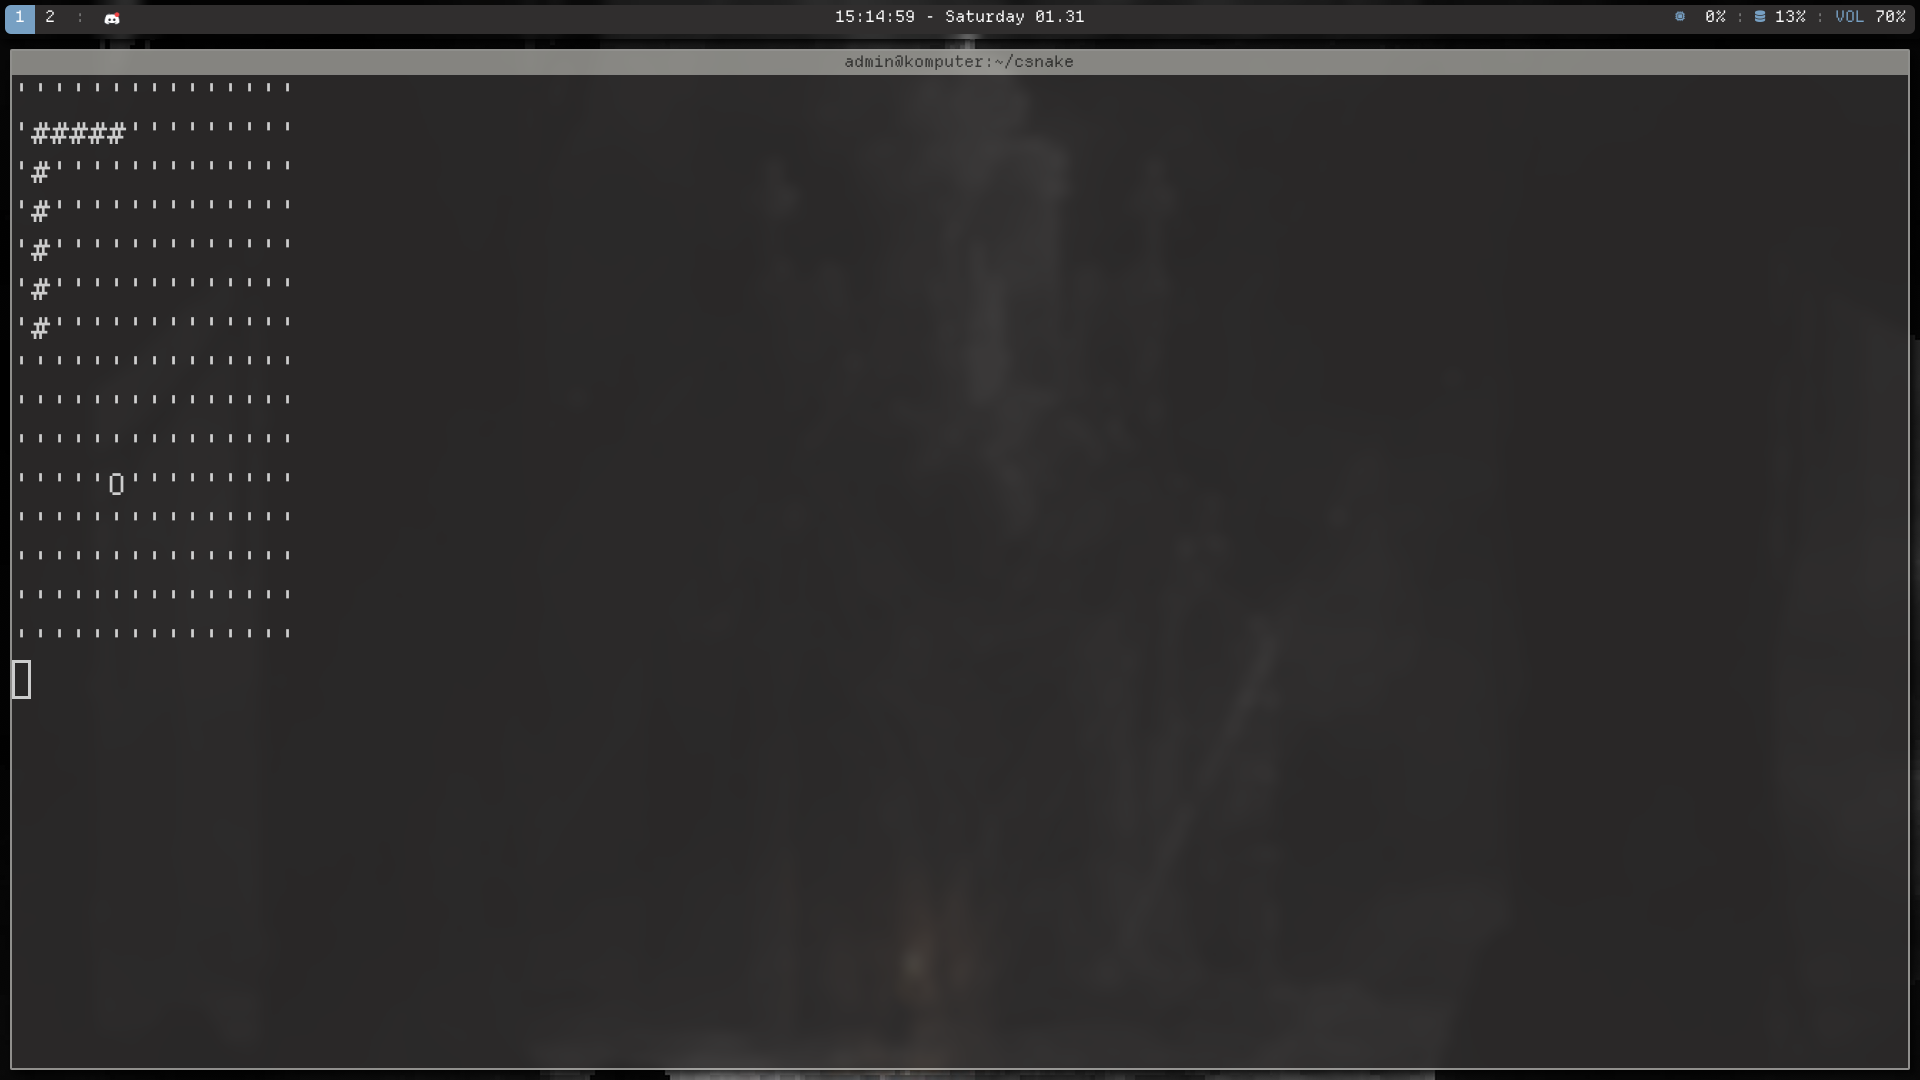
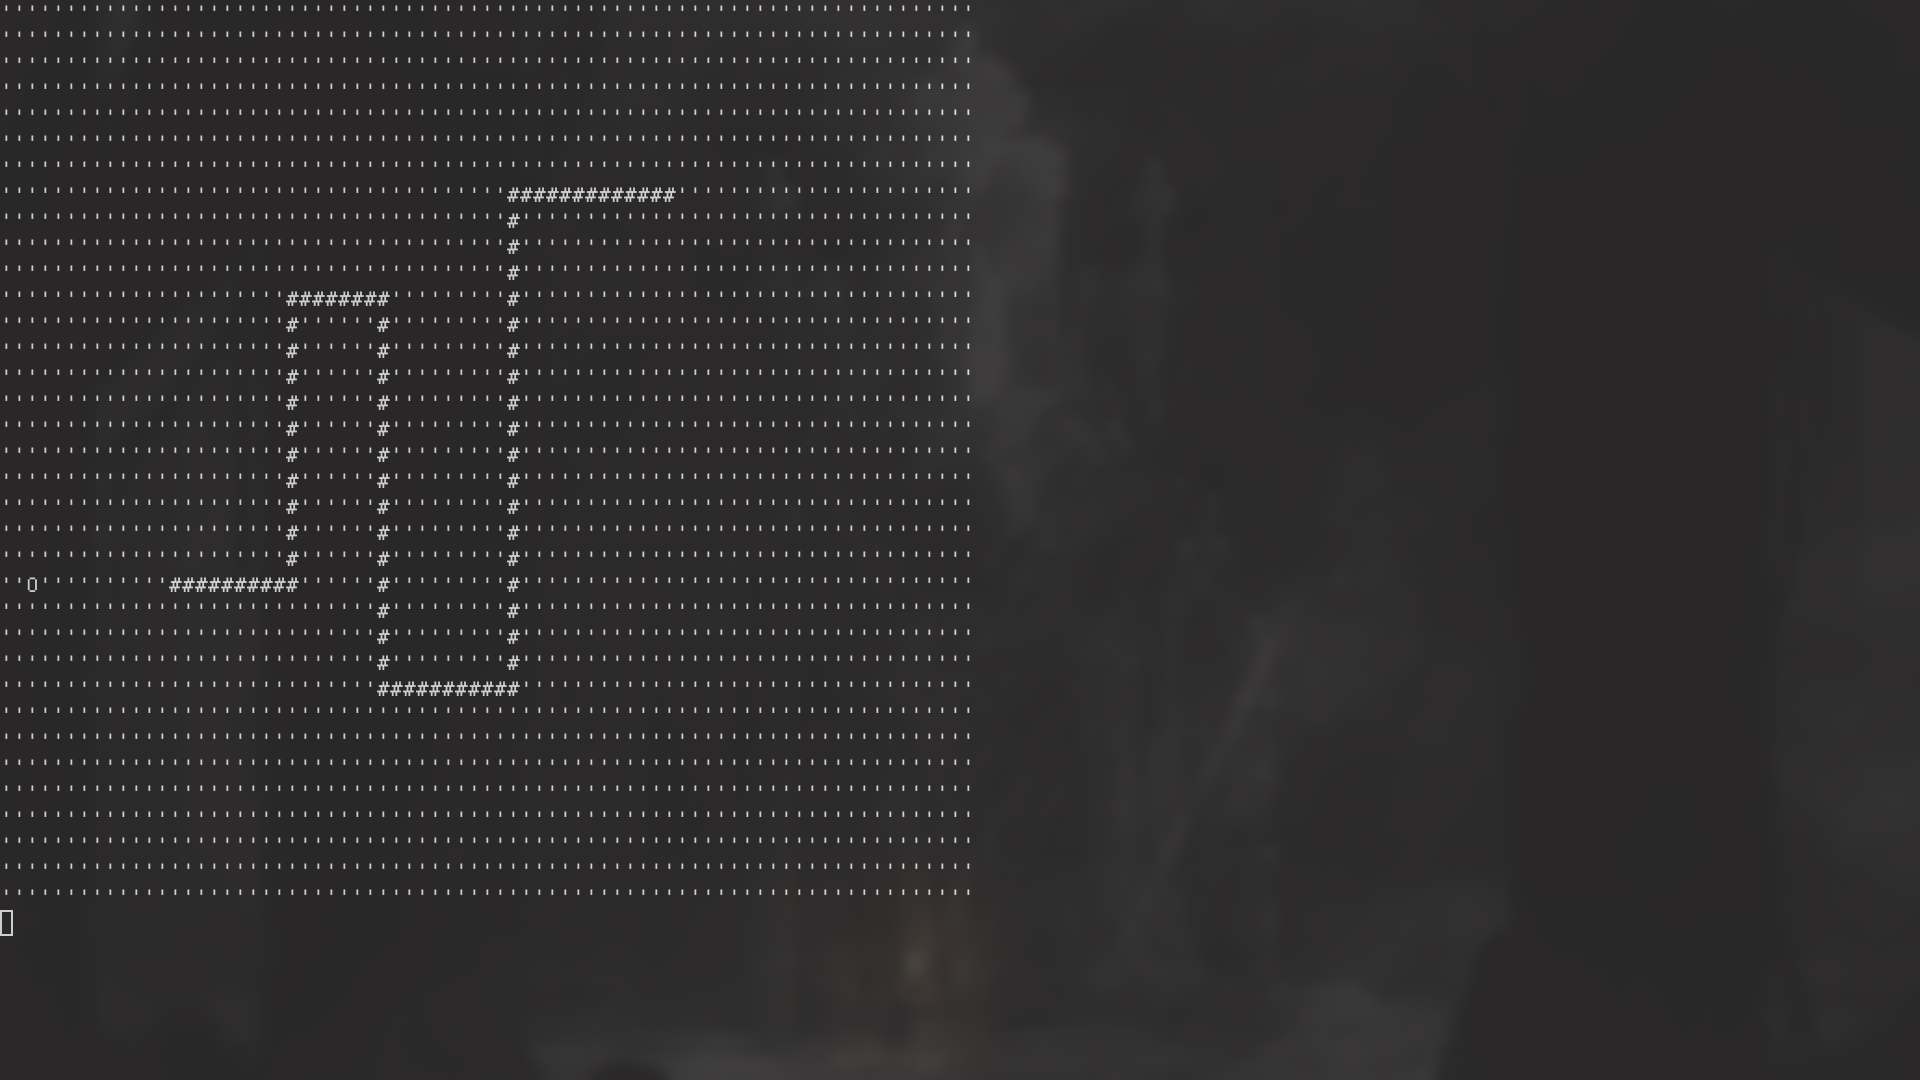
changed image and fixed code

diff --git a/main.c b/main.c
@@ -11,7 +11,7 @@ typedef unsigned int U32;
 typedef signed int I32;
 typedef unsigned char U8;
 
-#define COLS 15
+#define COLS 15 
 #define ROWS 15
 #define START_SIZE 3
 
@@ -81,7 +81,7 @@ void snake_init(Snake *s) {
     int centerX = COLS / 2;
     int centerY = ROWS / 2;
     for (I32 i=START_SIZE-1; i>=0; --i) {
-        vec2i vec = {centerY + i - START_SIZE, centerX};
+        vec2i vec = {centerX + i - START_SIZE, centerY};
         snake_add(s, vec);
     } 
 }
@@ -138,7 +138,7 @@ I32 main(void) {
     vec2i apple = { rand() % COLS, rand() % ROWS };
     
     snake_init(&snake);
-
+    
     while (1) {
         /* clear screen */
         printf("\e[1;1H\e[2J");
